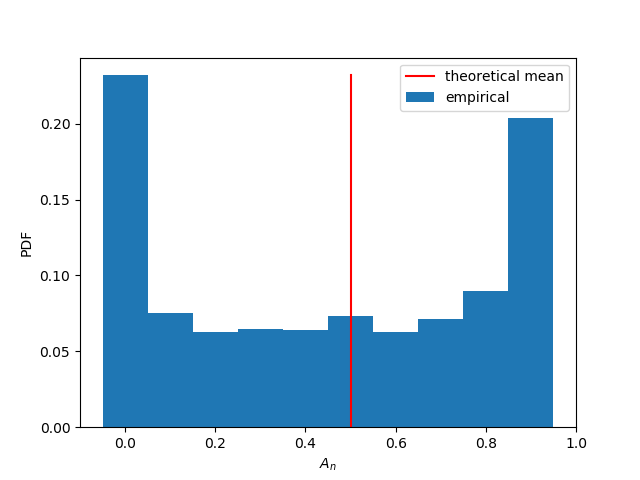
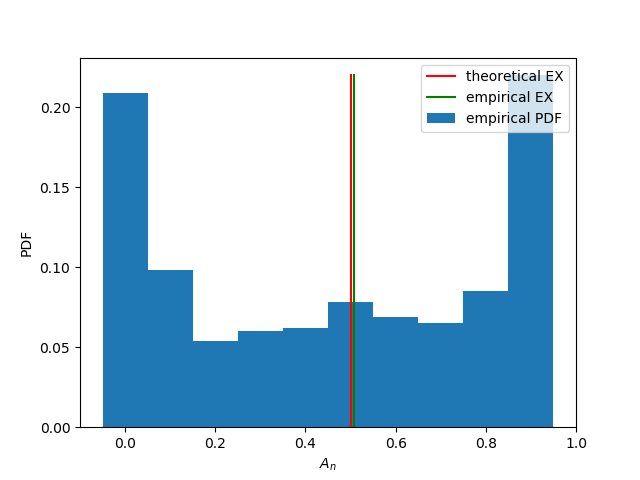
add empirical EX

diff --git a/lab4/PearsonsRandomGraph.py b/lab4/PearsonsRandomGraph.py
@@ -40,21 +40,25 @@ def distribution(G, N, n):
         # if vertex of graph is on the first quarter of plot
         Bn.append(sum(1 for k in range(len(x)) if x[k] > 0 and y[k] > 0))
 
+    meanAn = np.mean(np.asarray(An)/N)
     plt.figure()
     results, edges = np.histogram(np.asarray(An)/N, density=True)
     binWidth = edges[1] - edges[0]
-    plt.bar(edges[:-1], results*binWidth, binWidth, label='empirical')
-    plt.plot([1/2, 1/2] , [0, max(results*binWidth)], 'r', label='theoretical mean')
+    plt.bar(edges[:-1], results*binWidth, binWidth, label='empirical PDF')
+    plt.plot([1 / 2, 1 / 2], [0, max(results*binWidth)], 'r', label='theoretical EX')
+    plt.plot([meanAn, meanAn], [0, max(results * binWidth)], 'g', label='empirical EX')
     plt.legend()
     plt.xlabel(r'$A_n$')
     plt.ylabel('PDF')
     plt.savefig('pearsonsrandomwalk/prw_An_' + str(n) + 'graphs_' + str(N) + 'steps.png')
 
+    meanBn = np.mean(np.asarray(Bn) / N)
     plt.figure()
     results, edges = np.histogram(np.asarray(Bn)/N, density=True)
     binWidth = edges[1] - edges[0]
-    plt.bar(edges[:-1], results * binWidth, binWidth, label='empirical')
-    plt.plot([1 / 4, 1 / 4], [0, max(results * binWidth)], 'r', label='theoretical mean')
+    plt.bar(edges[:-1], results * binWidth, binWidth, label='empirical PDF')
+    plt.plot([1 / 4, 1 / 4], [0, max(results * binWidth)], 'r', label='theoretical EX')
+    plt.plot([meanBn, meanBn], [0, max(results * binWidth)], 'g', label='empirical EX')
     plt.legend()
     plt.xlabel(r'$B_n$')
     plt.ylabel('PDF')
